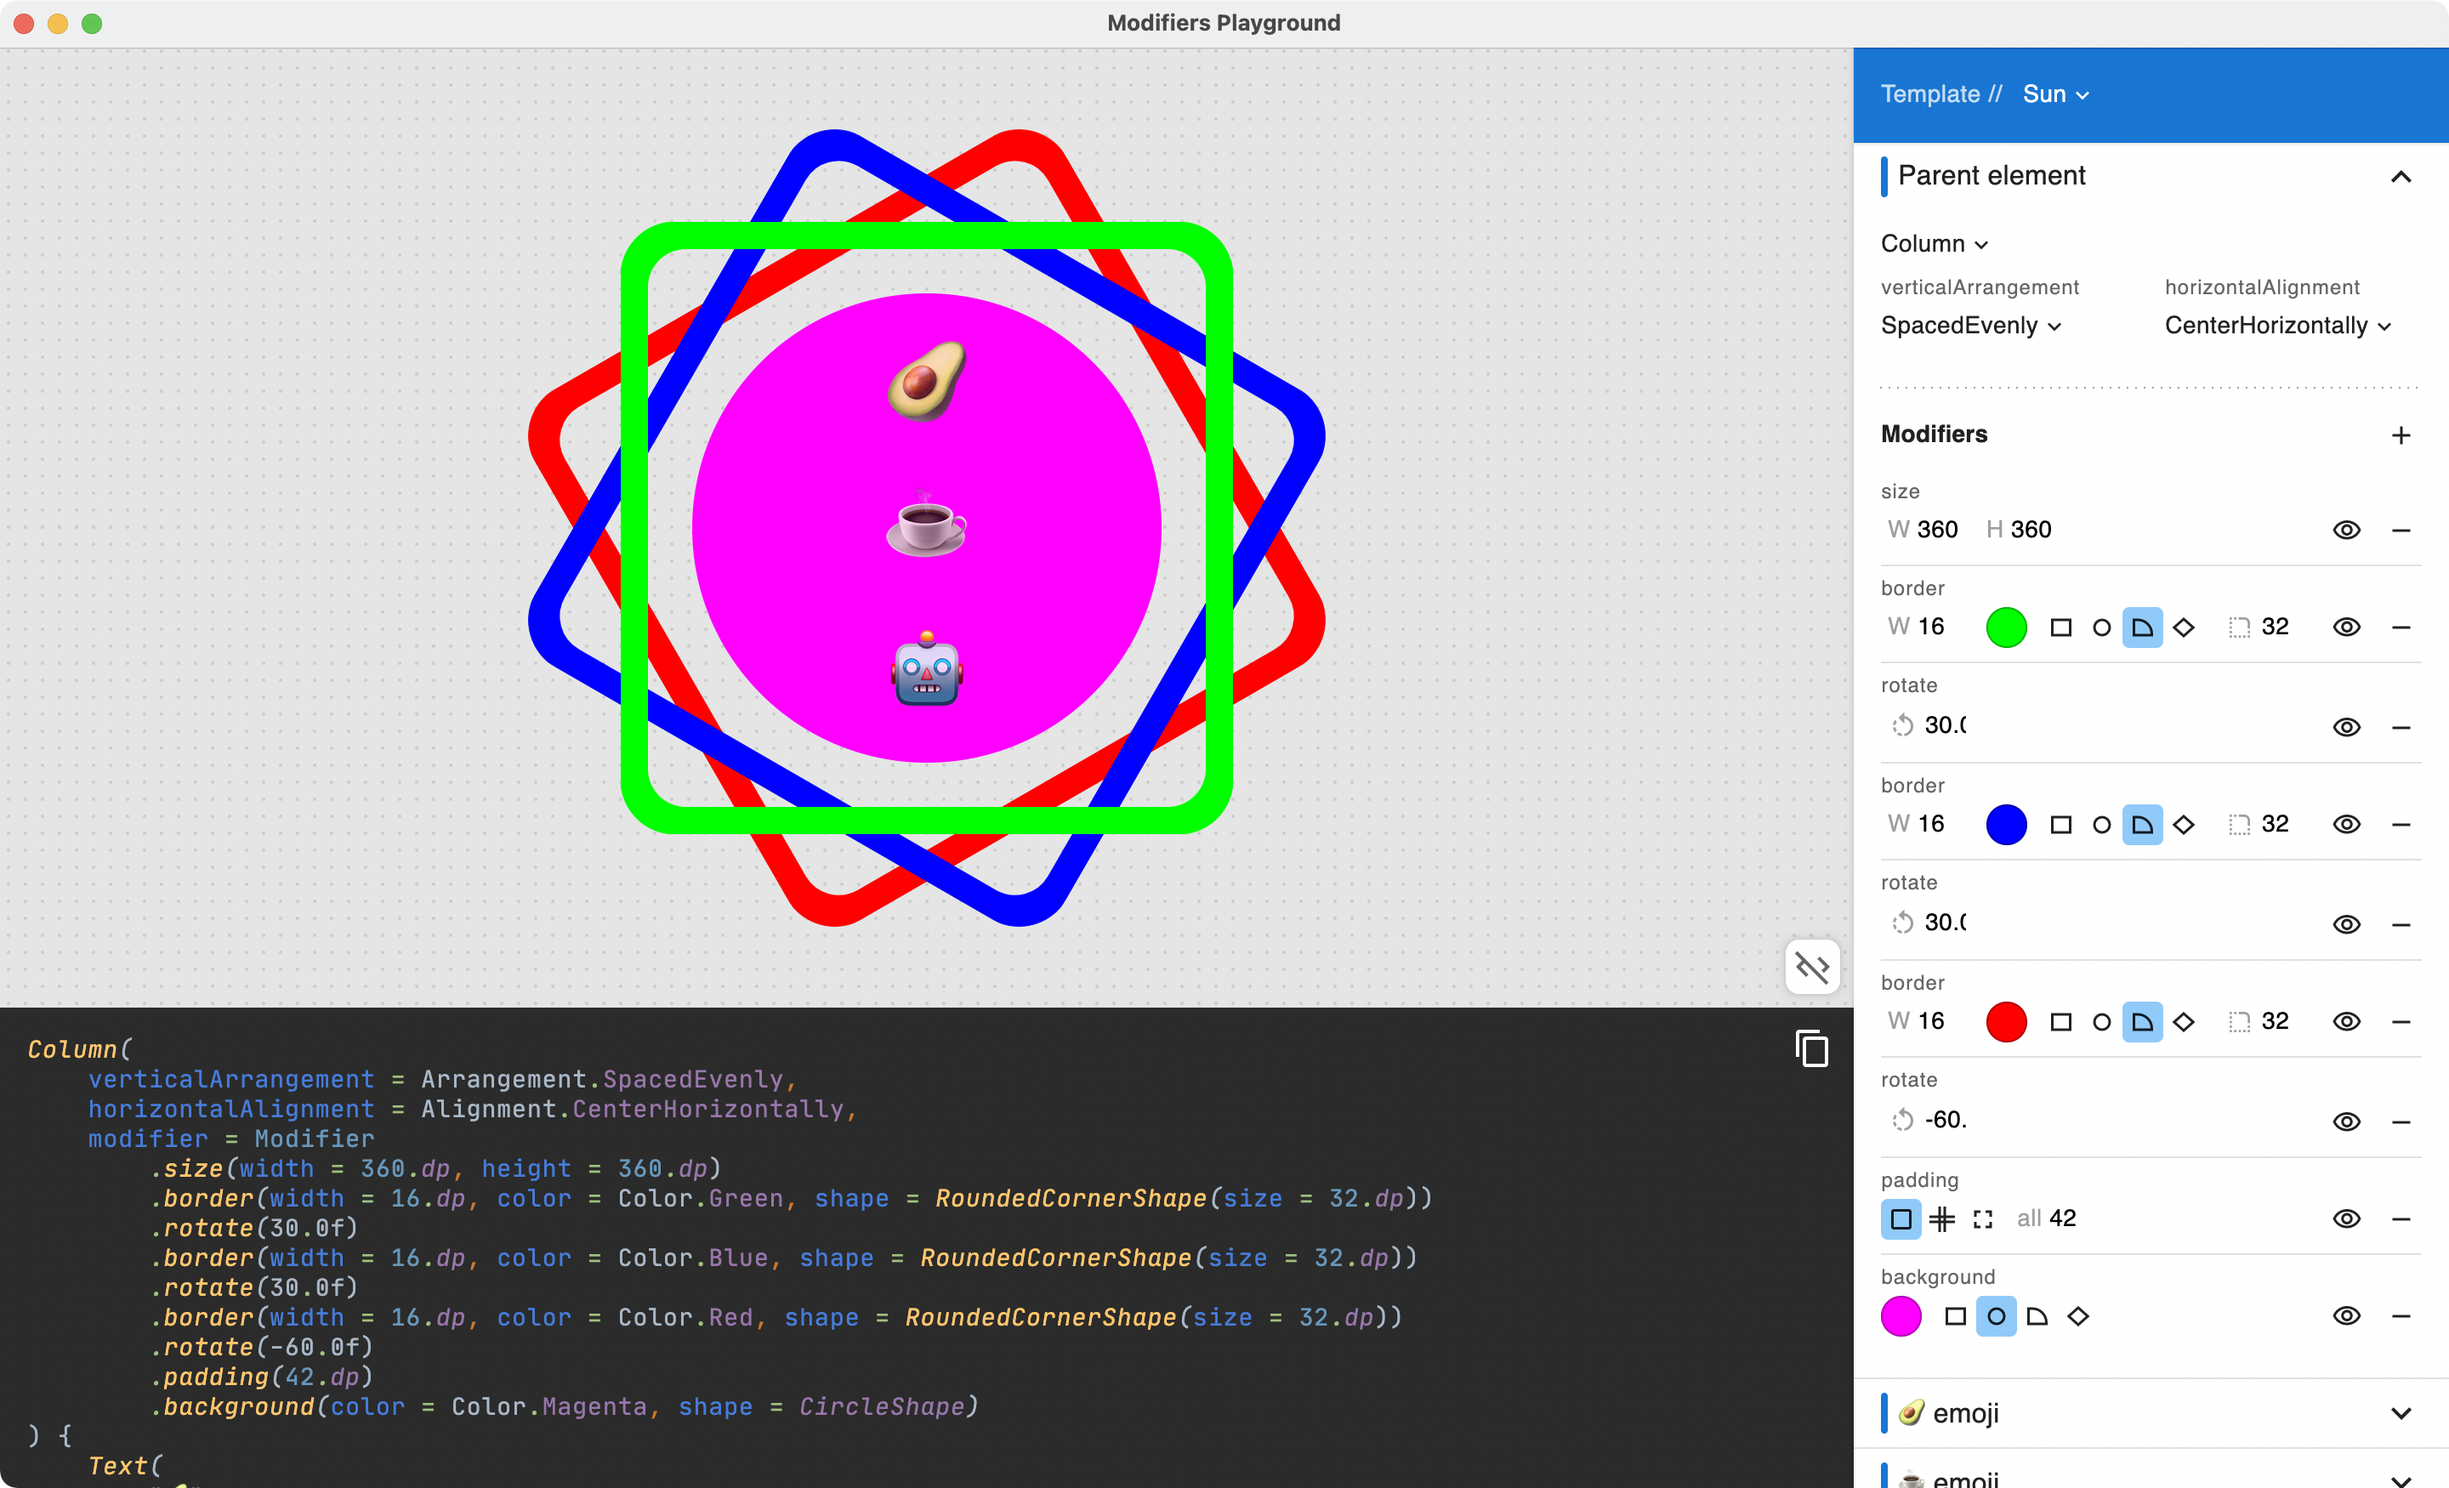
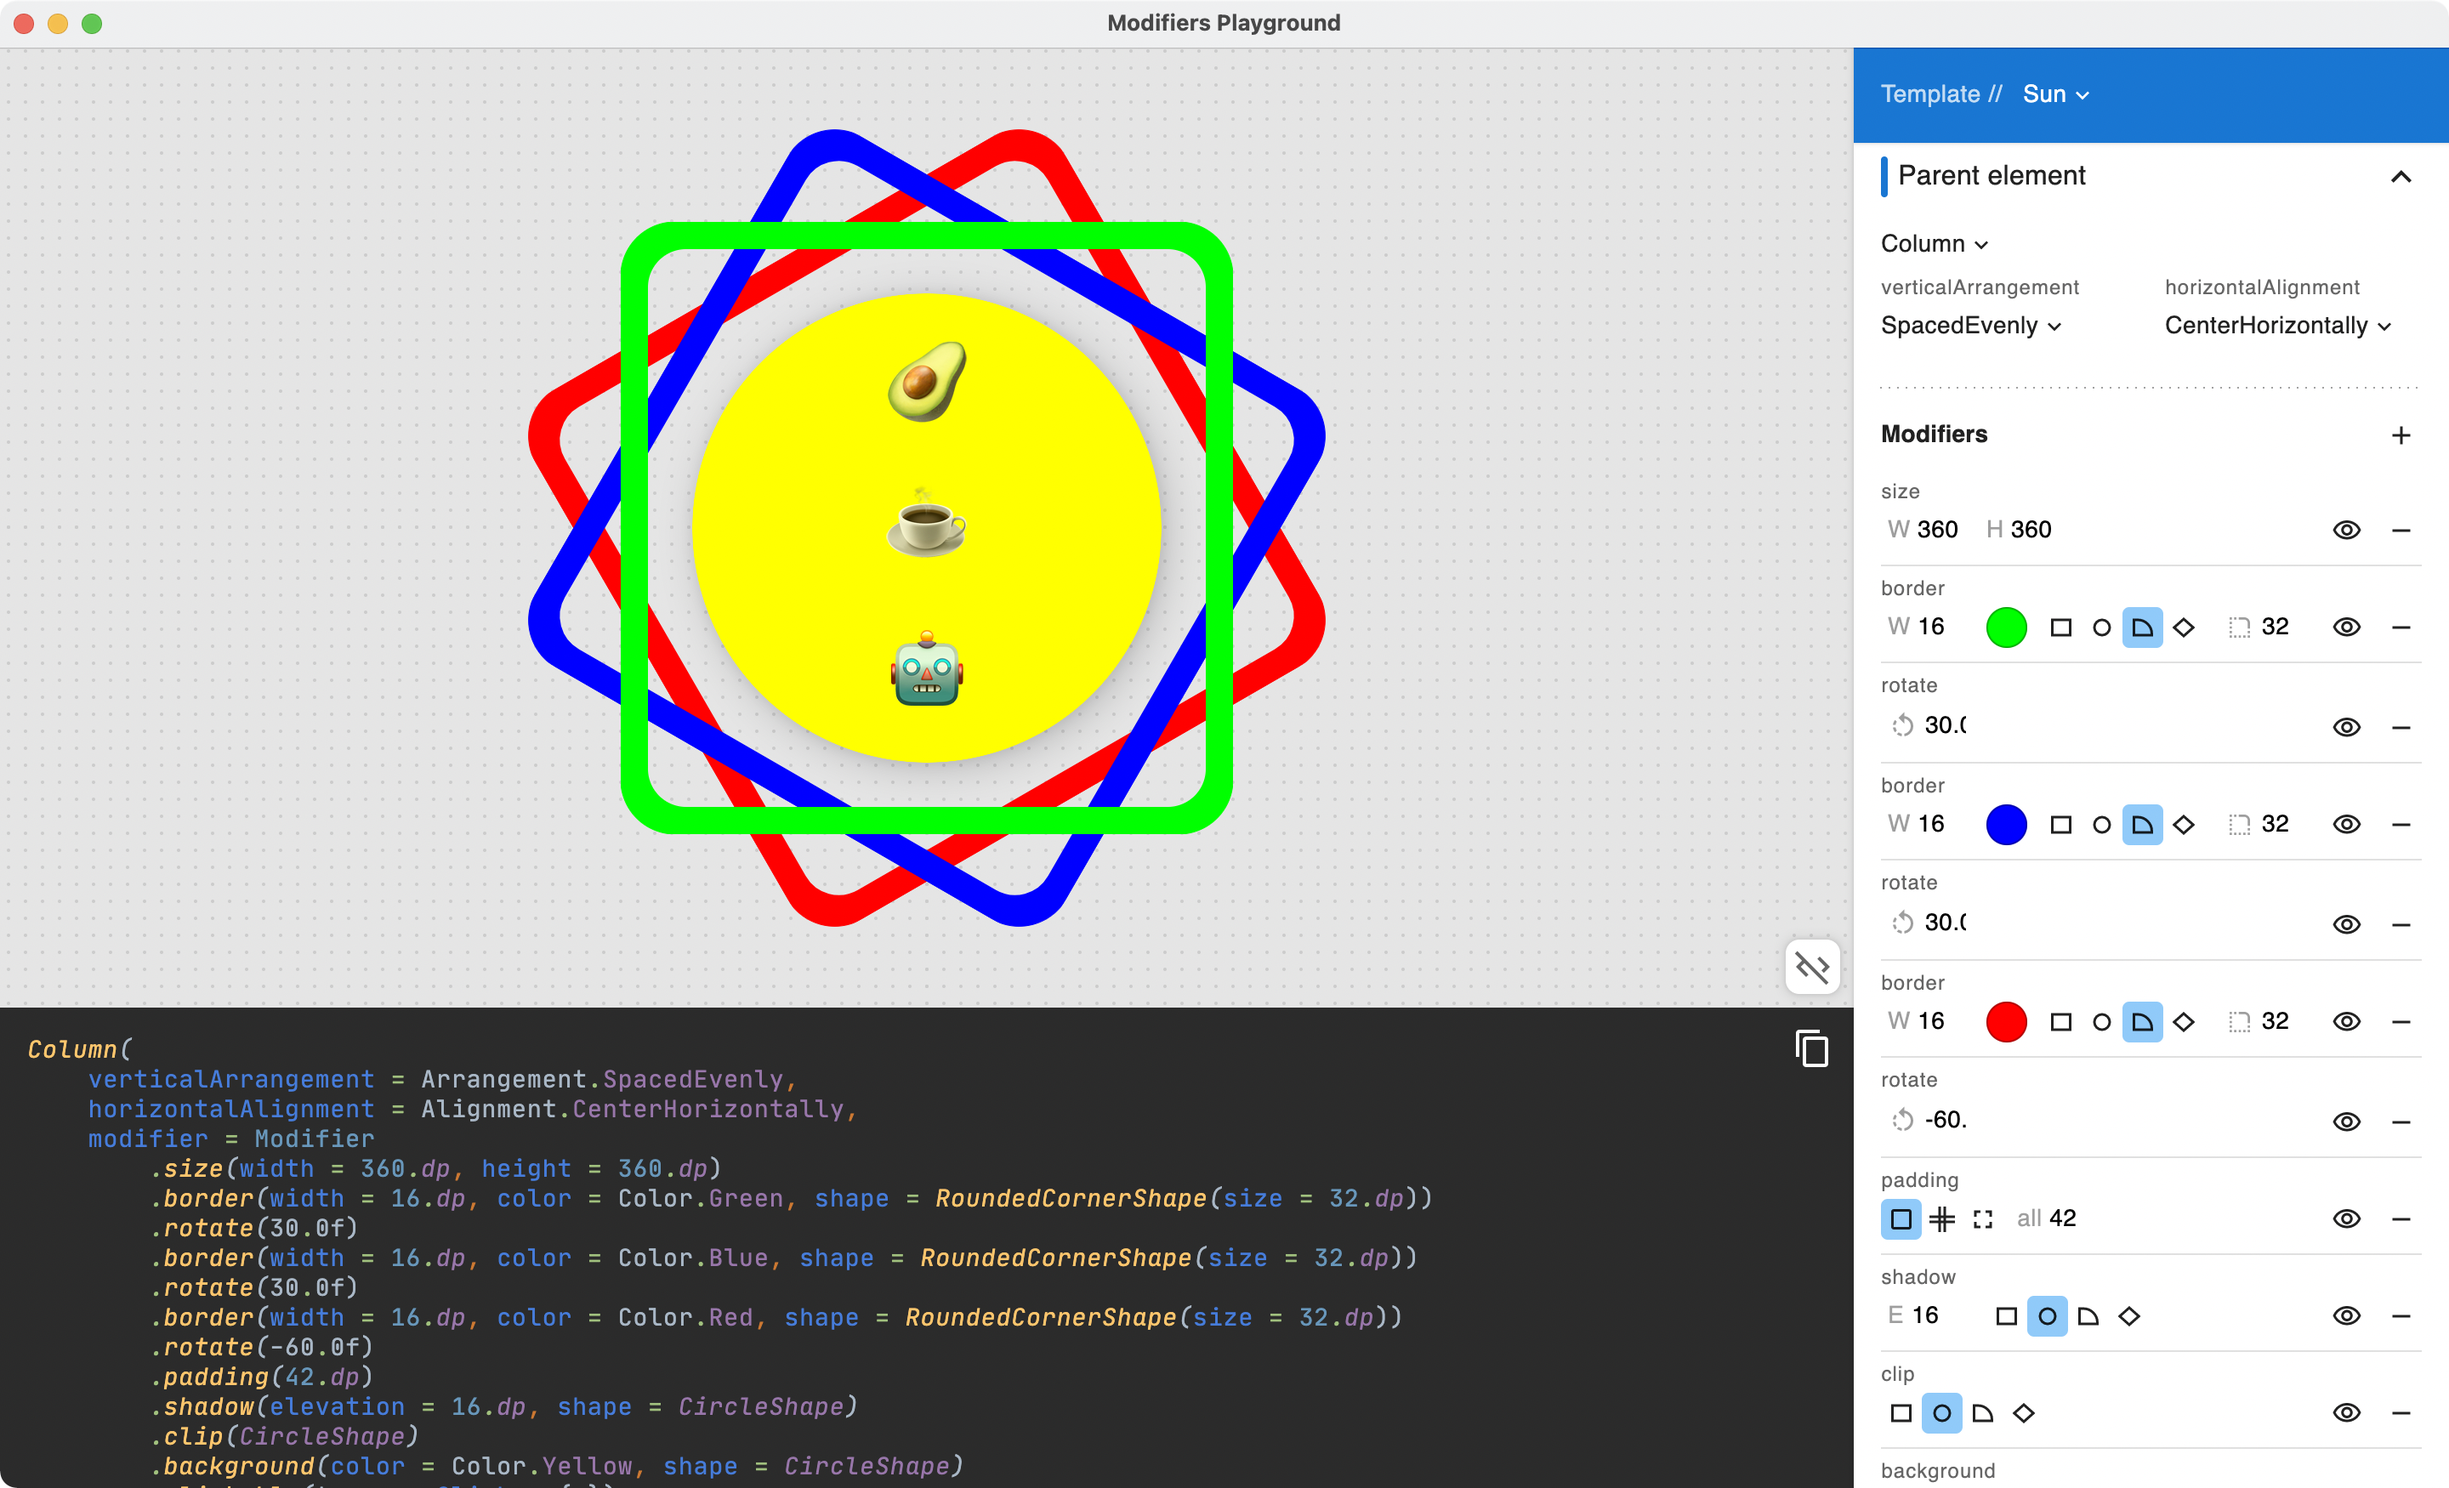
Tweak default templates

diff --git a/src/main/kotlin/com/c5inco/modifiers/plugin/PluginAction.kt b/src/main/kotlin/com/c5inco/modifiers/plugin/PluginAction.kt
@@ -27,12 +27,12 @@ class PluginAction : DumbAwareAction() {
         override fun createCenterPanel(): JComponent {
             val dialog = this
             return ComposePanel().apply {
-                preferredSize = Dimension(1000, 750)
+                preferredSize = Dimension(1100, 800)
                 setContent {
                     ComposeSizeAdjustmentWrapper(
                         window = dialog,
                         panel = this,
-                        preferredSize = IntSize(1000, 750)
+                        preferredSize = IntSize(1100, 800)
                     ) {
                         Thread.currentThread().contextClassLoader = PluginAction::class.java.classLoader
                         Surface(modifier = Modifier.fillMaxSize()) {

diff --git a/src/main/kotlin/com/c5inco/modifiers/data/templates.kt b/src/main/kotlin/com/c5inco/modifiers/data/templates.kt
@@ -94,7 +94,10 @@ object Templates {
             Pair(BorderModifierData(width = 16, color = Color.Red, shape = AvailableShapes.RoundedCorner, corner = 32), true),
             Pair(RotateModifierData(-60f), true),
             Pair(PaddingModifierData(42), true),
-            Pair(BackgroundModifierData(color = Color.Magenta, shape = AvailableShapes.Circle), true),
+            Pair(ShadowModifierData(elevation = 16, AvailableShapes.Circle), true),
+            Pair(ClipModifierData(shape = AvailableShapes.Circle), true),
+            Pair(BackgroundModifierData(color = Color.Yellow, shape = AvailableShapes.Circle), true),
+            Pair(ClickableModifierData(), true)
         ),
     )
 

diff --git a/src/main/kotlin/com/c5inco/modifiers/main.kt b/src/main/kotlin/com/c5inco/modifiers/main.kt
@@ -33,16 +33,16 @@ import com.c5inco.modifiers.utils.until
 
 fun main() = Window(
     title = "Modifiers Playground",
-    size = IntSize(width = 1000, height = 750)
+    size = IntSize(width = 1100, height = 800)
 ) {
     Application()
 }
 
 @Composable
 fun Application() {
-    val pinkSquare = Templates.Rainbow
+    val defaultTemplate = Templates.Sun
 
-    var activeTemplate by remember { mutableStateOf(pinkSquare) }
+    var activeTemplate by remember { mutableStateOf(defaultTemplate) }
 
     Playground(activeTemplate, onTemplateChange = {
         activeTemplate = it.copy()
